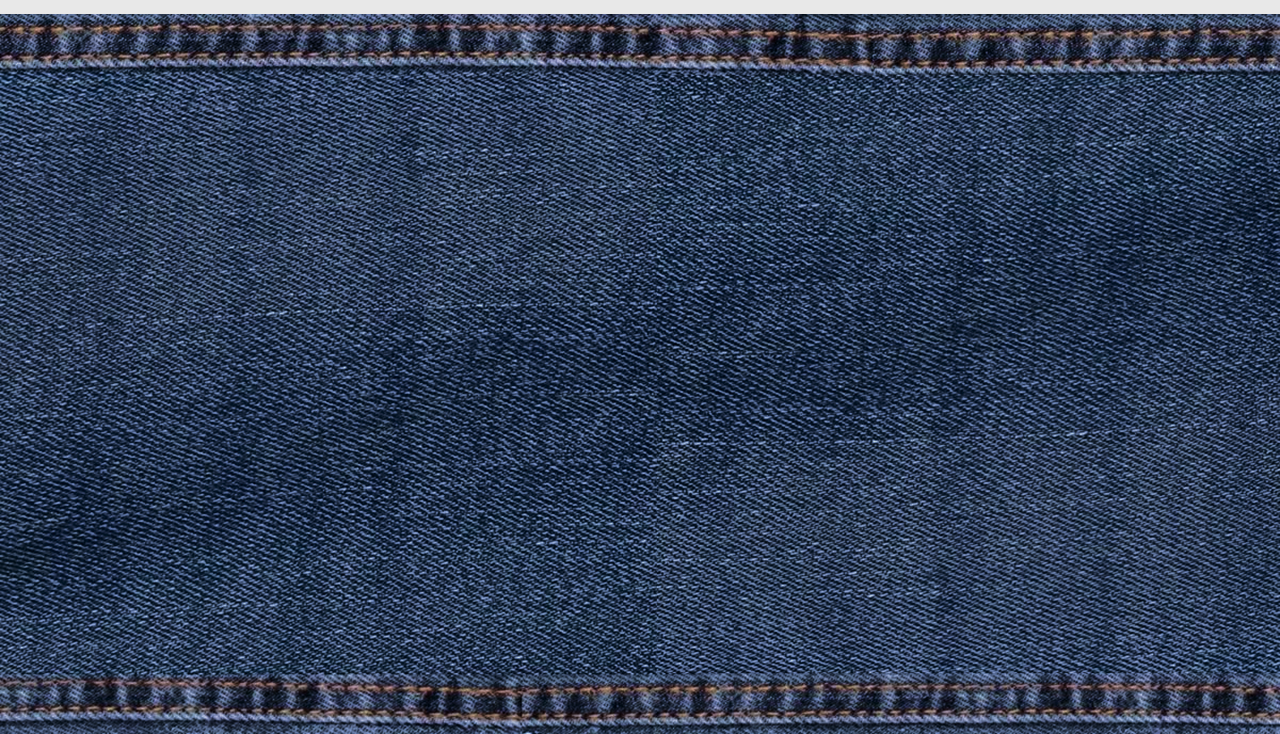
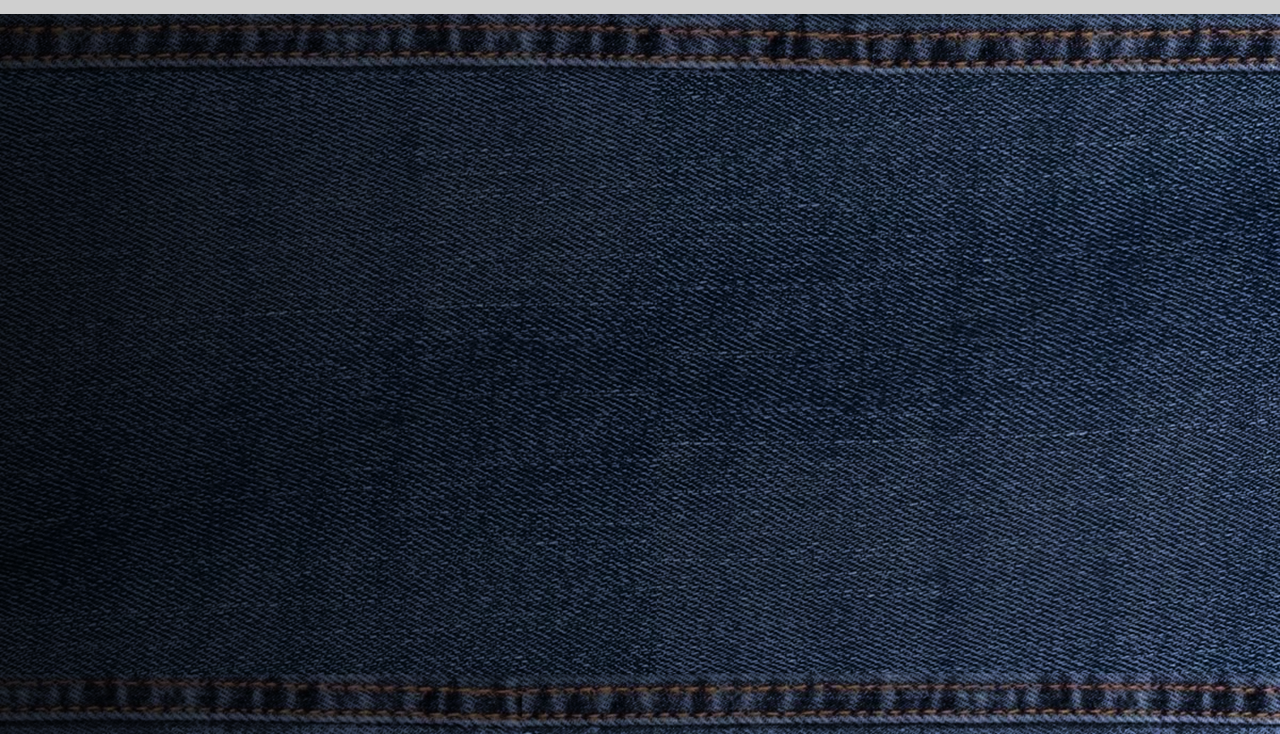
Fim da aula

diff --git a/home.html b/home.html
@@ -117,7 +117,20 @@
         </div>
     </div>
 
+    <div class="estado-do-brinquedo">
+        <img src="imagens/toys-hug.png" alt="">
 
+        <div class="containerEstado">
+            <h1>ESTADO DO BRINQUEDO</h1>
+            <p class="verde">Todo brinquedo merece uma nova aventura e toda criança merece recebê-lo em boas condições. 
+                Para que seu brinquedo possa fazer parte da história de outra criança, ele precisa estar 
+                limpo, completo e em bom estado de conservação.</p>
+                <p class="laranja">Se você gostaria de receber esse brinquedo, ele merece estar tão pronto para uma nova 
+                    aventura quanto você estaria. Ele deve estar em bom estado, completo, limpo, seguro 
+                    e funcionando.</p>
+        </div>
+
+    </div>
 
     <script src="home.js"></script>
 </body>

diff --git a/home.css b/home.css
@@ -370,3 +370,32 @@ header {
         font-weight: 700;
     }
 }
+
+.estado-do-brinquedo{
+    background-image: url(imagens/fundo-estado.png);
+    justify-content: center;
+    align-items: center;
+    background-size: cover;
+    background-position: center;
+    width: 100%;
+    height: 500px;
+
+    img{
+        width: 698px;
+    }
+}
+
+.containerEstado{
+    display: flex;
+    
+    justify-content: center;
+    align-items: flex-end;
+    text-align: right;
+    h1{
+        color: #FFC548;
+        -webkit-text-stroke: #C52330;
+        -webkit-text-stroke-width: 4px;
+        font-weight: 900;
+        font-size: 50px;
+    }
+}
